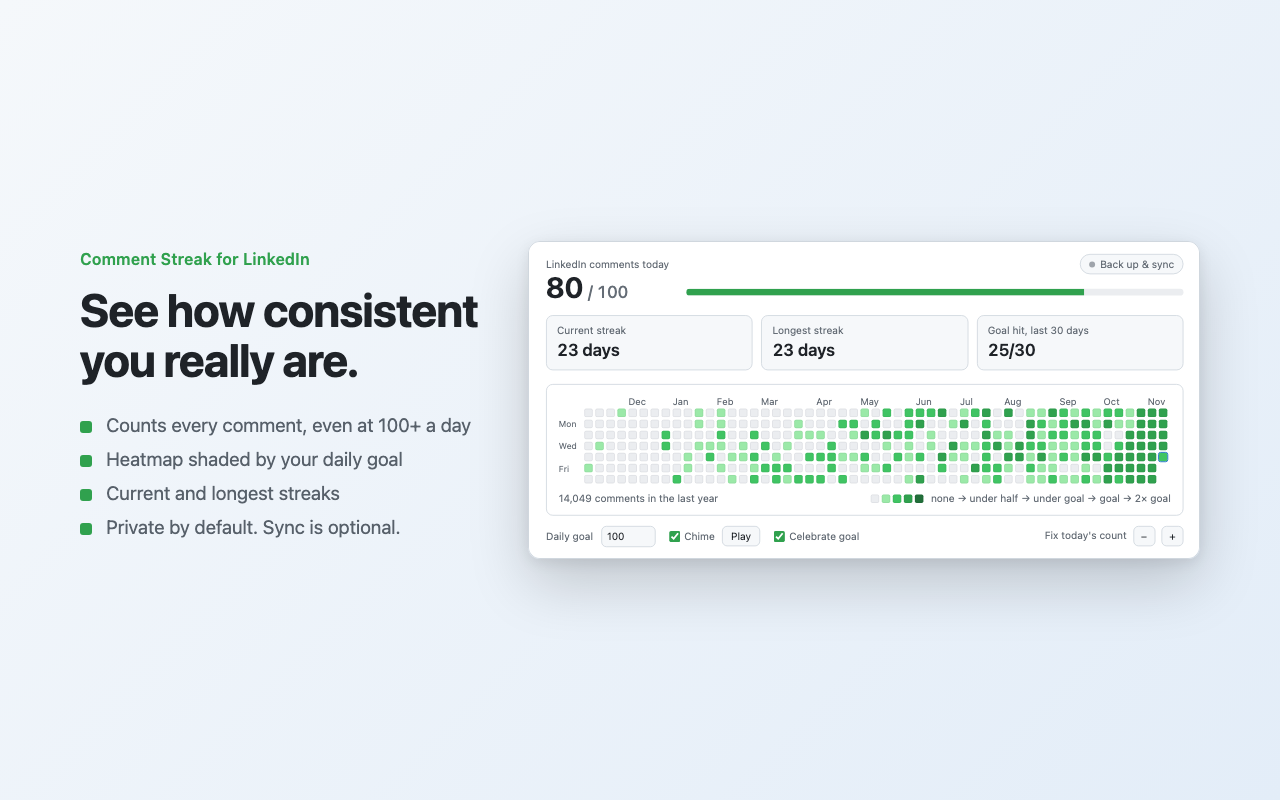
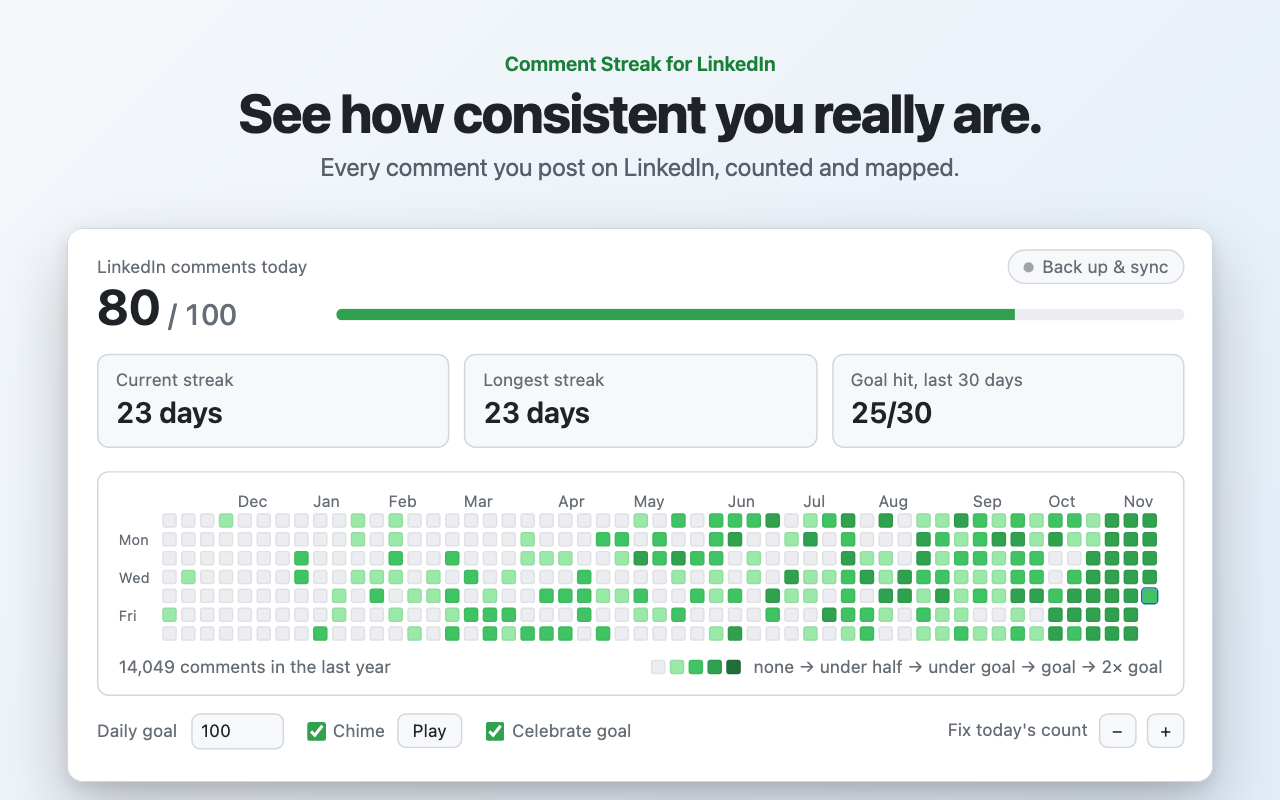
Back up hourly, and make the store screenshots readable
Sync: while you comment, the extension now backs up at most once an
hour instead of 30 seconds after each comment, and the popup pulls only
when the last sync is over an hour old. That cuts server requests about
15 times. Counts on this computer still update at once; the Back up &
sync panel says when the newest comments will back up, and Sync now
sends them immediately.

Store: the store shows screenshots at about half size, so the popup's
text was unreadable. The product now fills each frame at 1.45-1.85x,
with a big headline. Four screenshots: heatmap, goal celebration (the
real overlay, final frame), backup and sync, dark mode.

Listing copy and privacy answers updated for v1.5.0 (email and daily
counts leave the browser only with sync on).

diff --git a/store/src/screenshot.html b/store/src/screenshot.html
@@ -3,49 +3,108 @@
 <head>
 <meta charset="utf-8" />
 <title>Store screenshot</title>
+<!--
+  Chrome Web Store screenshots, 1280x800. The store shows them at about 590x370,
+  so the product fills most of the frame and the text is big.
+    ?v=1  heatmap (light)     ?v=2  goal celebration
+    ?v=3  backup and sync     ?v=4  heatmap (dark, run with --force-dark-mode)
+  ?v=2 needs --force-dark-mode --force-prefers-reduced-motion (the final frame, no animation).
+-->
 <style>
-  :root { --bg1: #f5f8fb; --bg2: #e3edf8; --fg: #1f2328; --muted: #57606a; --dot: #30a14e; --frame: #d0d7de; }
+  :root { --bg1: #f5f8fb; --bg2: #e3edf8; --fg: #1f2328; --muted: #57606a; --dot: #1a7f37; --frame: #d0d7de; }
   @media (prefers-color-scheme: dark) {
-    :root { --bg1: #0b0f14; --bg2: #13233a; --fg: #e6edf3; --muted: #9da7b3; --dot: #39d353; --frame: #30363d; }
+    :root { --bg1: #0b0f14; --bg2: #10261a; --fg: #e6edf3; --muted: #9da7b3; --dot: #39d353; --frame: #30363d; }
   }
   * { box-sizing: border-box; }
   html, body { margin: 0; width: 1280px; height: 800px; overflow: hidden; }
   body {
-    display: flex; align-items: center; gap: 48px; padding: 0 64px 0 80px;
+    position: relative;
     background: linear-gradient(135deg, var(--bg1), var(--bg2));
     color: var(--fg); font-family: system-ui, -apple-system, "Segoe UI", sans-serif;
   }
-  .copy { width: 400px; flex: none; }
-  .eyebrow { font-size: 16px; font-weight: 600; color: var(--dot); letter-spacing: .02em; margin-bottom: 18px; }
-  h1 { font-size: 46px; line-height: 1.08; margin: 0 0 28px; letter-spacing: -0.02em; }
-  ul { list-style: none; padding: 0; margin: 0; font-size: 19px; color: var(--muted); }
-  li { margin: 12px 0; padding-left: 26px; position: relative; }
-  li::before { content: ""; position: absolute; left: 0; top: 7px; width: 12px; height: 12px; border-radius: 3px; background: var(--dot); }
-  .popup {
-    width: 672px; height: 318px; flex: none; overflow: hidden;
-    border-radius: 12px; border: 1px solid var(--frame);
-    box-shadow: 0 24px 60px rgb(0 0 0 / 18%), 0 4px 14px rgb(0 0 0 / 8%);
+  .eyebrow { font-size: 20px; font-weight: 650; color: var(--dot); margin-bottom: 14px; }
+  h1 { font-size: 60px; line-height: 1.04; margin: 0; letter-spacing: -0.025em; font-weight: 750; }
+  .sub { font-size: 27px; line-height: 1.3; color: var(--muted); margin: 18px 0 0; }
+
+  /* A window onto a real page: a viewport of vw x vh, cropped to the region
+     (x, y, w, h) and shown at scale s. */
+  .shot {
+    position: absolute; overflow: hidden; border-radius: 16px; border: 1px solid var(--frame);
+    box-shadow: 0 30px 70px rgb(0 0 0 / 22%), 0 6px 16px rgb(0 0 0 / 10%);
   }
-  iframe { width: 790px; height: 425px; border: 0; transform: scale(0.85); transform-origin: 0 0; display: block; }
+  .shot iframe { position: absolute; left: 0; top: 0; border: 0; transform-origin: 0 0; }
+  .shot.bleed { border: 0; border-radius: 0; box-shadow: none; }
+  .copy { z-index: 1; }
+  .confetti { position: absolute; inset: 0; z-index: 2; }
+
+  /* Stacked: headline on top, the whole popup below. */
+  .stack .copy { position: absolute; left: 0; right: 0; top: 52px; text-align: center; }
+  .stack .eyebrow { margin-bottom: 10px; }
+  .stack h1 { font-size: 54px; }
+  .stack .sub { margin-top: 10px; font-size: 25px; }
+
+  /* Split: copy on the left, a close-up on the right. */
+  .split .copy { position: absolute; left: 72px; top: 0; bottom: 0; width: 400px; display: flex; flex-direction: column; justify-content: center; }
+
+  .confetti i { position: absolute; width: 18px; height: 18px; border-radius: 4px; }
 </style>
 </head>
 <body>
   <div class="copy">
     <div class="eyebrow">Comment Streak for LinkedIn</div>
-    <h1 id="headline">See how consistent you really are.</h1>
-    <ul id="points">
-      <li>Counts every comment, even at 100+ a day</li>
-      <li>Heatmap shaded by your daily goal</li>
-      <li>Current and longest streaks</li>
-      <li>Private by default. Sync is optional.</li>
-    </ul>
+    <h1 id="h1"></h1>
+    <p class="sub" id="sub"></p>
   </div>
-  <div class="popup"><iframe src="popup-demo.html" title="Extension popup"></iframe></div>
   <script>
-    if (new URLSearchParams(location.search).get("v") === "2") {
-      document.getElementById("headline").textContent = "A ding for every comment. Keep the streak alive.";
-      document.getElementById("points").innerHTML =
-        "<li>Soft chime per comment, bigger one at your goal</li><li>Badge shows today's count at a glance</li><li>⌘+Enter posts the comment you're typing</li><li>Optional sync. No tracking.</li>";
+    const v = new URLSearchParams(location.search).get("v") || "1";
+    const VARIANTS = {
+      1: { layout: "stack", h1: "See how consistent you really are.", sub: "Every comment you post on LinkedIn, counted and mapped.",
+           frame: { src: "popup-demo.html", vw: 790, vh: 430, x: 0, y: 0, w: 790, h: 382, s: 1.45, left: 67, top: 228 } },
+      // The whole frame is the scene, as on LinkedIn; the card sits right of centre.
+      2: { layout: "split", h1: "Hit your goal. Let it land.", sub: "A full-page moment when you reach your daily goal, with your streak and your week.",
+           frame: { src: "celebrate-demo.html", vw: 1408, vh: 640, x: 0, y: 0, w: 1408, h: 640, s: 1.25, left: 0, top: 0, bleed: true }, confetti: true },
+      3: { layout: "split", h1: "Your streak, backed up.", sub: "Sign in with a code from your email. No password. Your history follows you to every computer.",
+           frame: { src: "popup-demo.html?state=sync", vw: 790, vh: 430, x: 180, y: 30, w: 430, h: 370, s: 1.75, left: 480, top: 76, click: "account" } },
+      4: { layout: "stack", h1: "A chime for every comment.", sub: "Today's count on the toolbar. Your streak one click away.",
+           frame: { src: "popup-demo.html", vw: 790, vh: 430, x: 0, y: 0, w: 790, h: 382, s: 1.45, left: 67, top: 228 } },
+    };
+    const c = VARIANTS[v];
+    document.body.className = c.layout;
+    document.getElementById("h1").textContent = c.h1;
+    document.getElementById("sub").textContent = c.sub;
+
+    const f = c.frame;
+    const shot = document.createElement("div");
+    shot.className = f.bleed ? "shot bleed" : "shot";
+    Object.assign(shot.style, { left: `${f.left}px`, top: `${f.top}px`, width: `${f.w * f.s}px`, height: `${f.h * f.s}px` });
+    const frame = document.createElement("iframe");
+    frame.src = f.src;
+    frame.title = "Extension";
+    Object.assign(frame.style, { width: `${f.vw}px`, height: `${f.vh}px`, transform: `scale(${f.s}) translate(${-f.x}px, ${-f.y}px)` });
+    if (f.click) frame.addEventListener("load", () => setTimeout(() => {
+      const doc = frame.contentDocument;
+      doc.getElementById(f.click).click();
+      setTimeout(() => doc.activeElement?.blur(), 50); // no focus ring in the picture
+    }, 300));
+    shot.append(frame);
+    document.body.append(shot);
+
+    // Static confetti in the heatmap greens (the real one moves).
+    if (c.confetti) {
+      const box = document.createElement("div");
+      box.className = "confetti";
+      const greens = ["#0e4429", "#006d32", "#26a641", "#39d353", "#9be9a8"];
+      const rand = (s) => { const x = Math.sin(s * 91.17) * 43758.5453; return x - Math.floor(x); };
+      for (let i = 0; i < 46; i++) {
+        const left = 500 + rand(i + 1) * 780, top = rand(i + 50) * 790;
+        if (left > 590 && left < 1170 && top > 50 && top < 750) continue; // keep the card clear
+        const sq = document.createElement("i");
+        const size = 9 + rand(i + 99) * 14;
+        Object.assign(sq.style, { left: `${left}px`, top: `${top}px`, width: `${size}px`, height: `${size}px`,
+          background: greens[Math.floor(rand(i + 7) * greens.length)], transform: `rotate(${rand(i + 3) * 90}deg)`, opacity: 0.55 + rand(i + 21) * 0.45 });
+        box.append(sq);
+      }
+      document.body.append(box);
     }
   </script>
 </body>

diff --git a/store/src/celebrate-demo.html b/store/src/celebrate-demo.html
@@ -1,0 +1,43 @@
+<!doctype html>
+<html lang="en">
+<head>
+<meta charset="utf-8" />
+<title>Celebration demo</title>
+<!--
+  The real goal celebration (extension/celebrate.js) over a generic feed, for the
+  store screenshot. Render with --force-prefers-reduced-motion to get the final frame.
+-->
+<style>
+  /* A generic dark feed: the overlay dims and blurs it into a soft backdrop. */
+  body { margin: 0; padding: 24px; font-family: system-ui, sans-serif;
+         background: radial-gradient(40% 60% at 62% 45%, #12361f, transparent 70%), #161b22; }
+  .post { background: #222a33; border-radius: 10px; padding: 16px; margin: 0 auto 14px; max-width: 760px; }
+  .post b, .post i { display: block; border-radius: 6px; background: #343e4a; }
+  .post b { width: 40%; height: 14px; margin-bottom: 14px; }
+  .post i { height: 10px; margin: 8px 0; }
+  .post .img { height: 140px; margin-top: 14px; border-radius: 8px; background: #2b3540; }
+</style>
+<script>
+  // A fixed clock, so the card says "Done at 6:12 PM" whenever this is rendered.
+  const FIXED = new Date(2026, 10, 12, 18, 12).getTime();
+  const RealDate = Date;
+  window.Date = class extends RealDate {
+    constructor(...a) { super(...(a.length ? a : [FIXED])); }
+    static now() { return FIXED; }
+  };
+  let listener;
+  window.chrome = { runtime: { onMessage: { addListener: (fn) => (listener = fn) } } };
+</script>
+</head>
+<body>
+  <div class="post"><b></b><i></i><i></i><i style="width:70%"></i><div class="img"></div></div>
+  <div class="post"><b></b><i></i><i style="width:80%"></i><div class="img"></div></div>
+  <div class="post"><b></b><i></i><i></i></div>
+  <script src="/extension/celebrate.js"></script>
+  <script>
+    const today = new Date();
+    const week = [3, 4, 3, 3, 4, 3, 4].map((level, i) => ({ day: (today.getDay() + i + 1) % 7, level }));
+    listener({ type: "celebrate", data: { goal: 100, streak: 24, record: true, goalDays: 131, prevLevel: 2, week } }, {}, () => {});
+  </script>
+</body>
+</html>

diff --git a/extension/popup.js b/extension/popup.js
@@ -5,6 +5,7 @@ const $ = (id) => document.getElementById(id);
 const WEEKS = 53;
 const fmt = new Intl.DateTimeFormat(undefined, { weekday: "short", month: "short", day: "numeric", year: "numeric" });
 const monthFmt = new Intl.DateTimeFormat(undefined, { month: "short" });
+const timeFmt = new Intl.DateTimeFormat(undefined, { hour: "numeric", minute: "2-digit" });
 const days = (n) => `${n} ${n === 1 ? "day" : "days"}`;
 
 async function render() {
@@ -140,8 +141,12 @@ async function renderAccount(auth, sync = {}, counts = {}) {
       const n = (x, word) => `${x.toLocaleString()} ${word}${x === 1 ? "" : "s"}`;
       $("savedValue").textContent = `${n(saved.comments, "comment")} over ${n(saved.days, "day")}`;
       $("savedMeta").textContent = `From ${n(saved.computers, "computer")} · synced ${ago(sync.at)}.`;
+      // Comments since the last sync go with the hourly backup; say when.
       const here = Object.values(counts).reduce((a, b) => a + b, 0);
+      const next = saved.comments === here ? null : await chrome.alarms.get("sync");
       $("savedMatch").hidden = saved.comments !== here;
+      $("savedNext").hidden = !next;
+      if (next) $("savedNext").textContent = `Your newest comments back up at ${timeFmt.format(next.scheduledTime)}.`;
     }
   } else if (pendingLogin) {
     $("codeEmail").textContent = pendingLogin.email;

diff --git a/extension/sync.js b/extension/sync.js
@@ -129,9 +129,14 @@ export function syncNow() {
   return running;
 }
 
-// At most one sync per 30 seconds while you comment. Each sync wakes the
-// database, so this keeps it asleep most of the day (and inside free limits).
+// Backs up at most once an hour while you comment. Comments count on this
+// computer straight away; only the copy on the server waits. One sync an hour
+// instead of one per comment cuts server requests about 15 times, which is
+// what keeps thousands of daily users inside free plans.
+export const SYNC_EVERY_MIN = 60;
 export async function syncSoon() {
-  const { auth } = await local.get("auth");
-  if (auth?.token && !(await chrome.alarms.get("sync"))) chrome.alarms.create("sync", { delayInMinutes: 0.5 });
+  const { auth, sync } = await local.get(["auth", "sync"]);
+  if (!auth?.token || (await chrome.alarms.get("sync"))) return; // already scheduled: this change rides along
+  const due = (sync?.at || 0) + SYNC_EVERY_MIN * 60_000;
+  chrome.alarms.create("sync", { delayInMinutes: Math.max(0.5, (due - Date.now()) / 60_000) });
 }

diff --git a/store/src/stub.js b/store/src/stub.js
@@ -20,13 +20,22 @@
   }
   counts[key(now)] = 80;
 
+  // ?state=sync: signed in to Back up & sync, with the server's totals matching.
+  const data = { counts, goal: 100, sound: true };
+  if (new URLSearchParams(location.search).get("state") === "sync") {
+    const days = Object.values(counts).filter((n) => n > 0);
+    data.auth = { token: "demo", email: "alex@example.com", marketing: false };
+    data.sync = { at: Date.now() - 3 * 60_000, saved: { comments: days.reduce((a, b) => a + b, 0), days: days.length, computers: 2 } };
+  }
+
   window.chrome = {
     storage: {
-      local: { get: async () => ({ counts, goal: 100, sound: true }), set: async () => {} },
+      local: { get: async () => data, set: async () => {} },
       session: { get: async () => ({}) },
       onChanged: { addListener() {} },
     },
     runtime: { sendMessage: async () => ({ ok: true }) },
+    alarms: { get: async () => null },
   };
 
   const style = document.createElement("style");

diff --git a/extension/background.js b/extension/background.js
@@ -9,6 +9,7 @@ import {
   deleteAccount,
   syncNow,
   syncSoon,
+  SYNC_EVERY_MIN,
 } from "./sync.js";
 
 // Serialise writes so two quick comments can't overwrite each other.
@@ -144,10 +145,11 @@ const ACCOUNT_ACTIONS = {
   "account:delete": () => deleteAccount(),
   "sync:now": () => syncNow(),
   "sync:soon": () => syncSoon(),
-  // The popup opened: get the other computers' latest, unless we just did.
+  // The popup opened: get the other computers' latest, unless the last sync
+  // is less than an hour old (newer comments go with the hourly backup).
   "sync:pull": async () => {
     const { sync } = await chrome.storage.local.get("sync");
-    if (!sync?.at || Date.now() - sync.at > 60_000) await syncNow();
+    if (!sync?.at || Date.now() - sync.at > SYNC_EVERY_MIN * 60_000) await syncNow();
   },
 };
 

diff --git a/extension/popup.html b/extension/popup.html
@@ -83,6 +83,7 @@
         <div class="top"><span>Saved on the server</span><span class="ok" id="savedMatch" hidden>✓ Matches this popup</span></div>
         <div class="value" id="savedValue"></div>
         <div class="meta" id="savedMeta"></div>
+        <div class="meta" id="savedNext" hidden></div>
       </div>
       <label class="toggle"><input id="marketingOn" type="checkbox" /> Email me occasional product updates</label>
       <div class="row">

diff --git a/README.md b/README.md
@@ -8,7 +8,7 @@ Comment Streak is a Chrome extension. It counts the comments that you post on Li
 
 ![Comment Streak popup: 80 of 100 comments today, a current streak of 23 days, the goal on 25 of the last 30 days, and 14,049 comments on a green heatmap for one year](store/screenshot-1-1280x800.png)
 
-**Chrome Web Store:** in review · **Download:** [latest release](https://github.com/authenticryan/linkedin-comment-streak/releases/latest) · **Privacy:** [no data goes out of your browser unless you turn on sync](PRIVACY.md)
+**Chrome Web Store:** [install](https://chromewebstore.google.com/detail/comment-streak-for-linked/gmflljeahipnkaahfcplloegahoefkbg) · **Download:** [latest release](https://github.com/authenticryan/linkedin-comment-streak/releases/latest) · **Privacy:** [no data goes out of your browser unless you turn on sync](PRIVACY.md)
 
 ---
 
@@ -38,10 +38,10 @@ I made the same type of graph for LinkedIn comments. At 100 comments each day, y
 - **A celebration at the goal.** When you post the comment that completes your goal, the LinkedIn page goes dark. A card counts up to your goal. Then confetti in the heatmap colors bursts, and the square for today changes to green. The card shows your streak, your number of goal days, and the time that you completed the goal. The card stays until you close it. To see the full goal moment, open LinkedIn, hold Shift, and click **Play** in the popup. You can also set the celebration to off.
 - **⌘+Enter to post.** Press ⌘+Enter (Ctrl+Enter on Windows) to post the comment in the comment box.
 - **Manual correction.** If the count for today is not correct, use **−** and **+** to correct it.
-- **Backup and sync (optional).** Click **Back up & sync** in the popup and type your email. The extension sends a 6-digit code to your email. Type the code in the popup. Your counts and your goal then sync between your computers. If you use a new computer, sign in, and your heatmap comes back. The extension works the same without an account.
+- **Backup and sync (optional).** Click **Back up & sync** in the popup and type your email. The extension sends a 6-digit code to your email. Type the code in the popup. Your counts and your goal then sync between your computers. If you use a new computer, sign in, and your heatmap comes back. While you comment, the extension sends your counts a maximum of one time each hour. To send them immediately, click **Sync now**. The panel shows the number of comments that the server saved, and it shows if this number is the same as the popup. The extension works the same without an account.
 - **Privacy.** The extension has no analytics. It does not read the text of your comments. Without sync, no data goes out of your browser. With sync, the server stores only your email, your counts for each day, and your goal.
 
-![Dark theme: a sound for each comment, the badge shows the count for today, and ⌘+Enter posts the comment](store/screenshot-2-1280x800.png)
+![The goal celebration: a dark card shows 100 comments today, the text "You showed up 100 times today.", a 24-day streak, and the 131st goal day](store/screenshot-2-1280x800.png)
 
 ## Product decisions
 
@@ -76,10 +76,10 @@ In a small product, the most important decisions are about what to remove. This 
 - **Sound from a service worker.** In Manifest V3, a service worker cannot play audio. For this reason, the sound plays in an offscreen document. The Web Audio API makes the sound from sine tones and one overtone, so the extension has no sound files.
 - **Tests with real data.** The tests use request names from linkedin.com. These names include the similar requests that the extension must not count. The tests also examine the streak and color rules. The tests use the built-in test runner of Node.
 - **Fast repairs.** The service worker records each LinkedIn `POST` request in the console. If LinkedIn changes its endpoint, the new request name shows in the console after one test comment. [MAINTAINING.md](MAINTAINING.md) gives the repair procedure.
-- **Store images from the real interface.** A script opens the real popup in headless Chrome with sample data for one year. Thus, the screenshots show the real product, not a mockup.
+- **Store images from the real interface.** A script opens the real popup and the real goal celebration in headless Chrome with sample data for one year. Thus, the screenshots show the real product, not a mockup. The Chrome Web Store shows each screenshot at approximately half size. For this reason, the product fills most of each screenshot, and the text is large.
 - **Sync server with one dependency.** The optional sync server is in `server/`. It runs on Vercel Functions, stores data in Neon Postgres, and sends sign-in codes with Resend. It uses no framework and no authentication library. Its only runtime dependency is the Neon database driver. The server keeps codes and session tokens only as hashes. Each code operates one time, for 10 minutes, for a maximum of 5 attempts. The server sends a maximum of 5 codes for each email in one hour.
 - **Server tests with real Postgres.** The server tests run all of the SQL against PGlite. PGlite is Postgres compiled to WebAssembly, so the tests need no database server. The tests examine sign-in, rate limits, the sync between two computers, the goal, consent, and the deletion of an account.
-- **Sync that repairs itself.** Each sync sends all of the counts of the computer (a few KB), not only the changes. If one sync fails, the next sync makes the server correct again. A sync occurs a maximum of one time each 30 seconds. Thus, the database sleeps for most of the day and stays in the free plan.
+- **Sync that repairs itself.** Each sync sends all of the counts of the computer (a few KB), not only the changes. If one sync fails, the next sync makes the server correct again. While you comment, a sync occurs a maximum of one time each hour. The count on your computer changes immediately. Only the copy on the server waits. This decreases the server requests by approximately 15 times, so that the free plans can support more users.
 - **Light and dark themes.** The extension uses the theme of your system and the colors of the GitHub contribution graph.
 - **Release pipeline.** For each push, GitHub Actions examines the manifest and runs the tests. When you push a `v*` tag, GitHub Actions makes the store zip file and publishes a GitHub release. The release notes come from the changelog. If the tag and the manifest version are different, the release stops.
 

diff --git a/PUBLISHING.md b/PUBLISHING.md
@@ -20,7 +20,7 @@ LinkedIn's trademark rules and the Store's impersonation policy make "LinkedIn" 
 
 ### 3. Your existing history
 
-A Store install is a different extension from your unpacked copy, so **it starts with an empty heatmap.** Build export/import first (MAINTAINING.md backlog #1) if you want to keep your history.
+A Store install is a different extension from your unpacked copy, so **it starts with an empty heatmap.** To keep your history, sign in to **Back up & sync** in both copies, then remove the unpacked copy. (If both copies count at the same time, each comment counts two times.)
 
 ## Steps
 
@@ -30,7 +30,7 @@ A Store install is a different extension from your unpacked copy, so **it starts
 4. **Store listing tab**
    - Description (draft below), category **Productivity**, language English
    - Icon: 128×128 (taken from the zip)
-   - At least 1 screenshot, **1280×800** (up to 5)
+   - Screenshots, **1280×800**: upload `store/screenshot-1` to `-4` in order (heatmap, celebration, sync, dark)
    - Small promo tile, **440×280**
 5. **Privacy practices tab:** paste the answers below.
 6. **Distribution:** pick visibility, then **Submit for review.**
@@ -48,9 +48,11 @@ Updates later: bump the version, upload the new zip, submit. Users get it automa
 > • Toolbar badge with today's count, green when you hit your goal
 > • Heatmap shaded by your daily goal, plus current and longest streaks
 > • A soft chime for every comment and a brighter one when you hit your goal
+> • A full-page celebration on the comment that completes your goal
+> • Optional backup and sync: sign in with a code from your email, no password, and your history follows you to every computer
 > • ⌘+Enter / Ctrl+Enter to post the comment you're typing
 >
-> Private by design: no account, no server, no tracking. It never reads your comment text. Counts are stored only in your browser.
+> Private by default: without an account, nothing leaves your browser. With backup and sync, only your email, your daily counts and your goal are stored. It never reads your comment text. No ads, no tracking.
 >
 > Not affiliated with or endorsed by LinkedIn.
 
@@ -71,7 +73,11 @@ Updates later: bump the version, upload the new zip, submit. Users get it automa
 
 **Remote code:** No, all code is in the package.
 
-**Data usage:** tick no data types, since nothing leaves the browser. Certify all three statements (no selling, no unrelated use, no creditworthiness use).
+**Data usage (from v1.5.0):** tick these two, because they leave the browser when the user turns on backup and sync:
+- **Personally identifiable information:** the email address, to sign in with a one-time code and, only if the user ticks the box, for product-update emails.
+- **User activity:** the number of comments the user posts each day, to back up and sync the heatmap between their computers.
+
+Certify all three statements (no selling, no unrelated use, no creditworthiness use). The extension calls `https://comment-streak-sync.vercel.app` only to sign in and to sync. It needs no extra permission for that.
 
 **Privacy policy URL:**
 `https://github.com/authenticryan/linkedin-comment-streak/blob/main/PRIVACY.md`

diff --git a/CHANGELOG.md b/CHANGELOG.md
@@ -4,6 +4,7 @@
 
 - Optional backup and sync. Sign in with a 6-digit code that is sent to your email. There is no password. Your daily counts and your goal sync between your computers, and they move with you to a new computer or to the Chrome Web Store version.
 - Each computer keeps its own count, and the server adds them together, so two computers never overwrite each other. Your goal follows the most recent change.
+- Backups run at most once an hour while you comment, and when Chrome starts. **Sync now** backs up at once. Your counts on this computer always update immediately.
 - **Back up & sync** in the top-right corner of the popup shows the sync status. Its panel shows what the server has saved for you (comments, days and computers) and confirms when that matches the popup. From there you can sync now, sign out, change product-update emails, or delete your account and synced data.
 - The extension works the same without an account. No new permissions.
 - The sync server is in `server/` (Vercel Functions, Neon Postgres, Resend).

diff --git a/MAINTAINING.md b/MAINTAINING.md
@@ -42,7 +42,7 @@ The comment box changed. On linkedin.com, open DevTools and inspect the comment 
 
 ## Sync server
 
-The extension works without it. When signed in, the extension sends all of this computer's counts at most once every 30 seconds, plus when the popup opens and when Chrome starts. The server stores one row per day per computer and answers with the totals from your other computers.
+The extension works without it. When signed in, the extension sends all of this computer's counts at most once an hour while you comment, when you open the popup and the last sync is over an hour old, when Chrome starts, and when you click **Sync now**. Comments count locally at once; only the server copy waits. The server stores one row per day per computer and answers with the totals from your other computers.
 
 ### Where it runs
 
